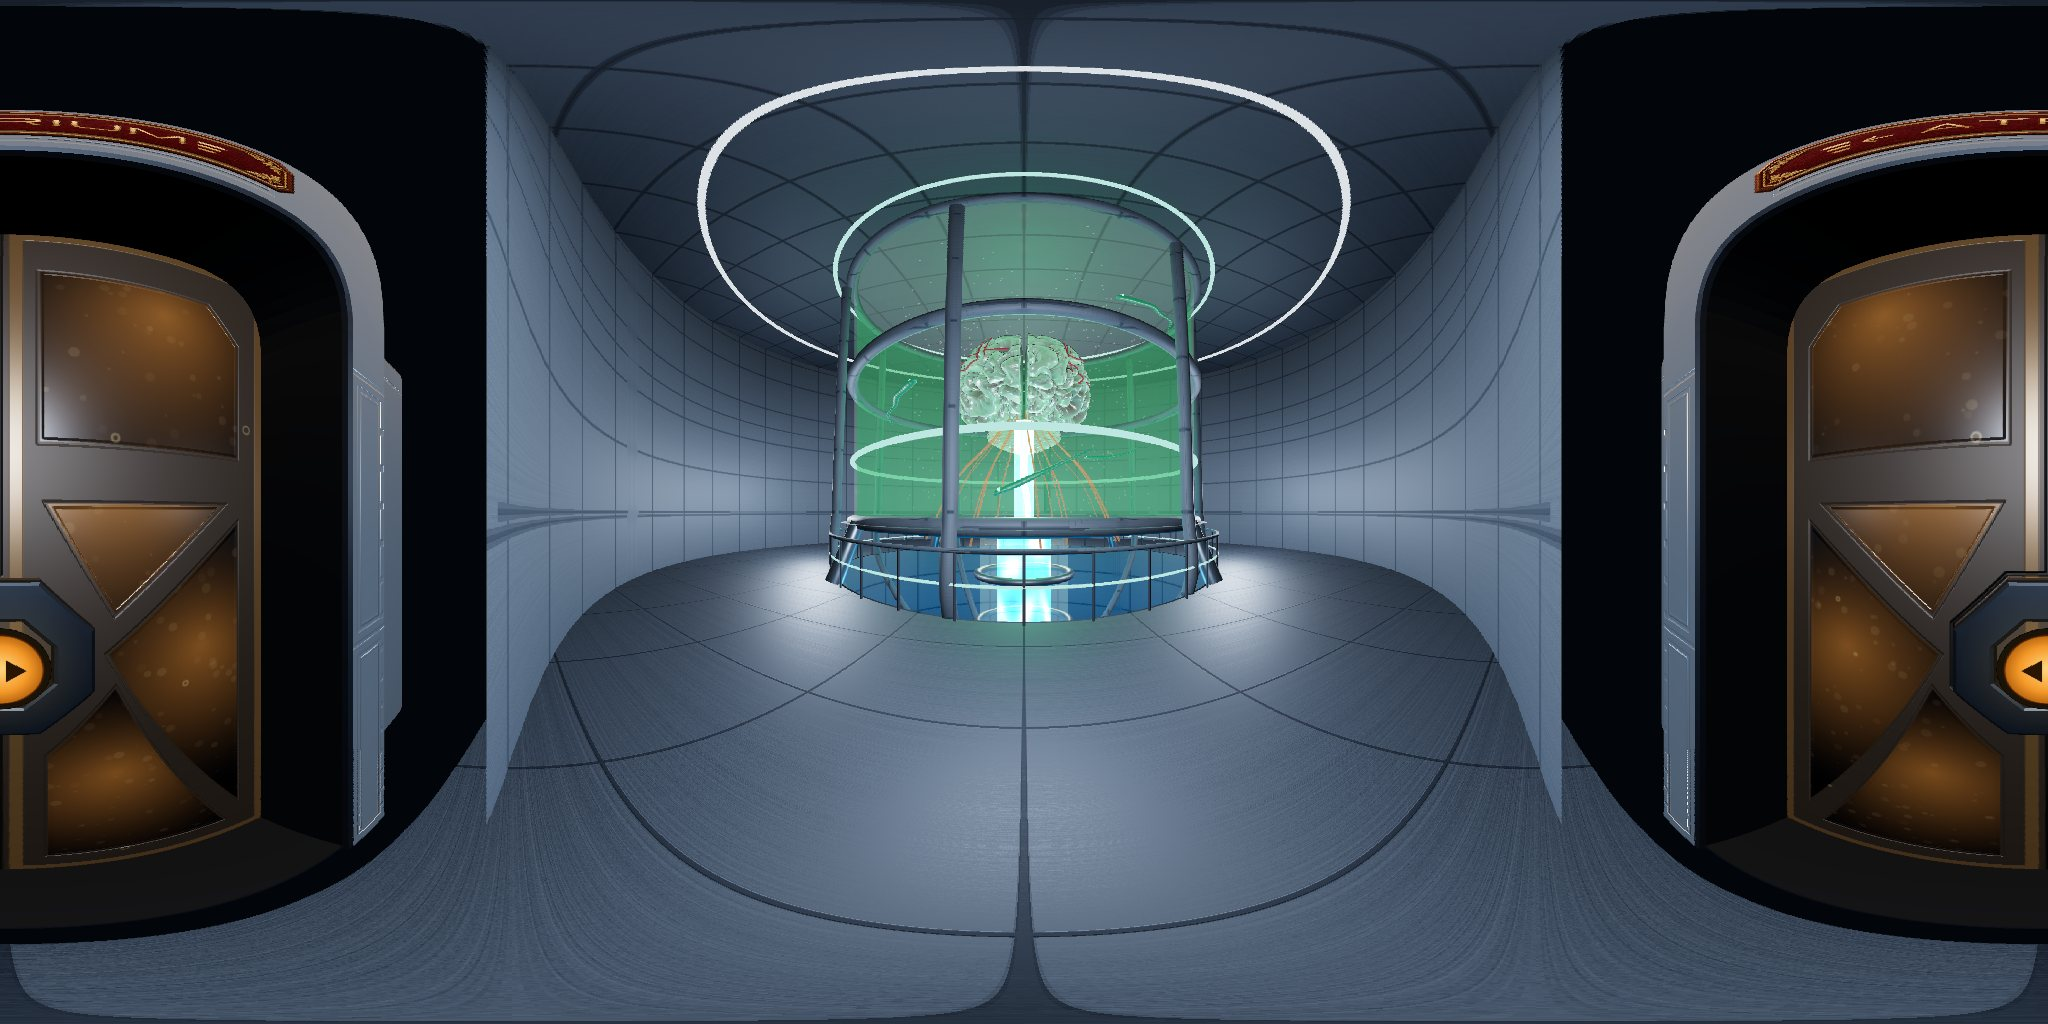
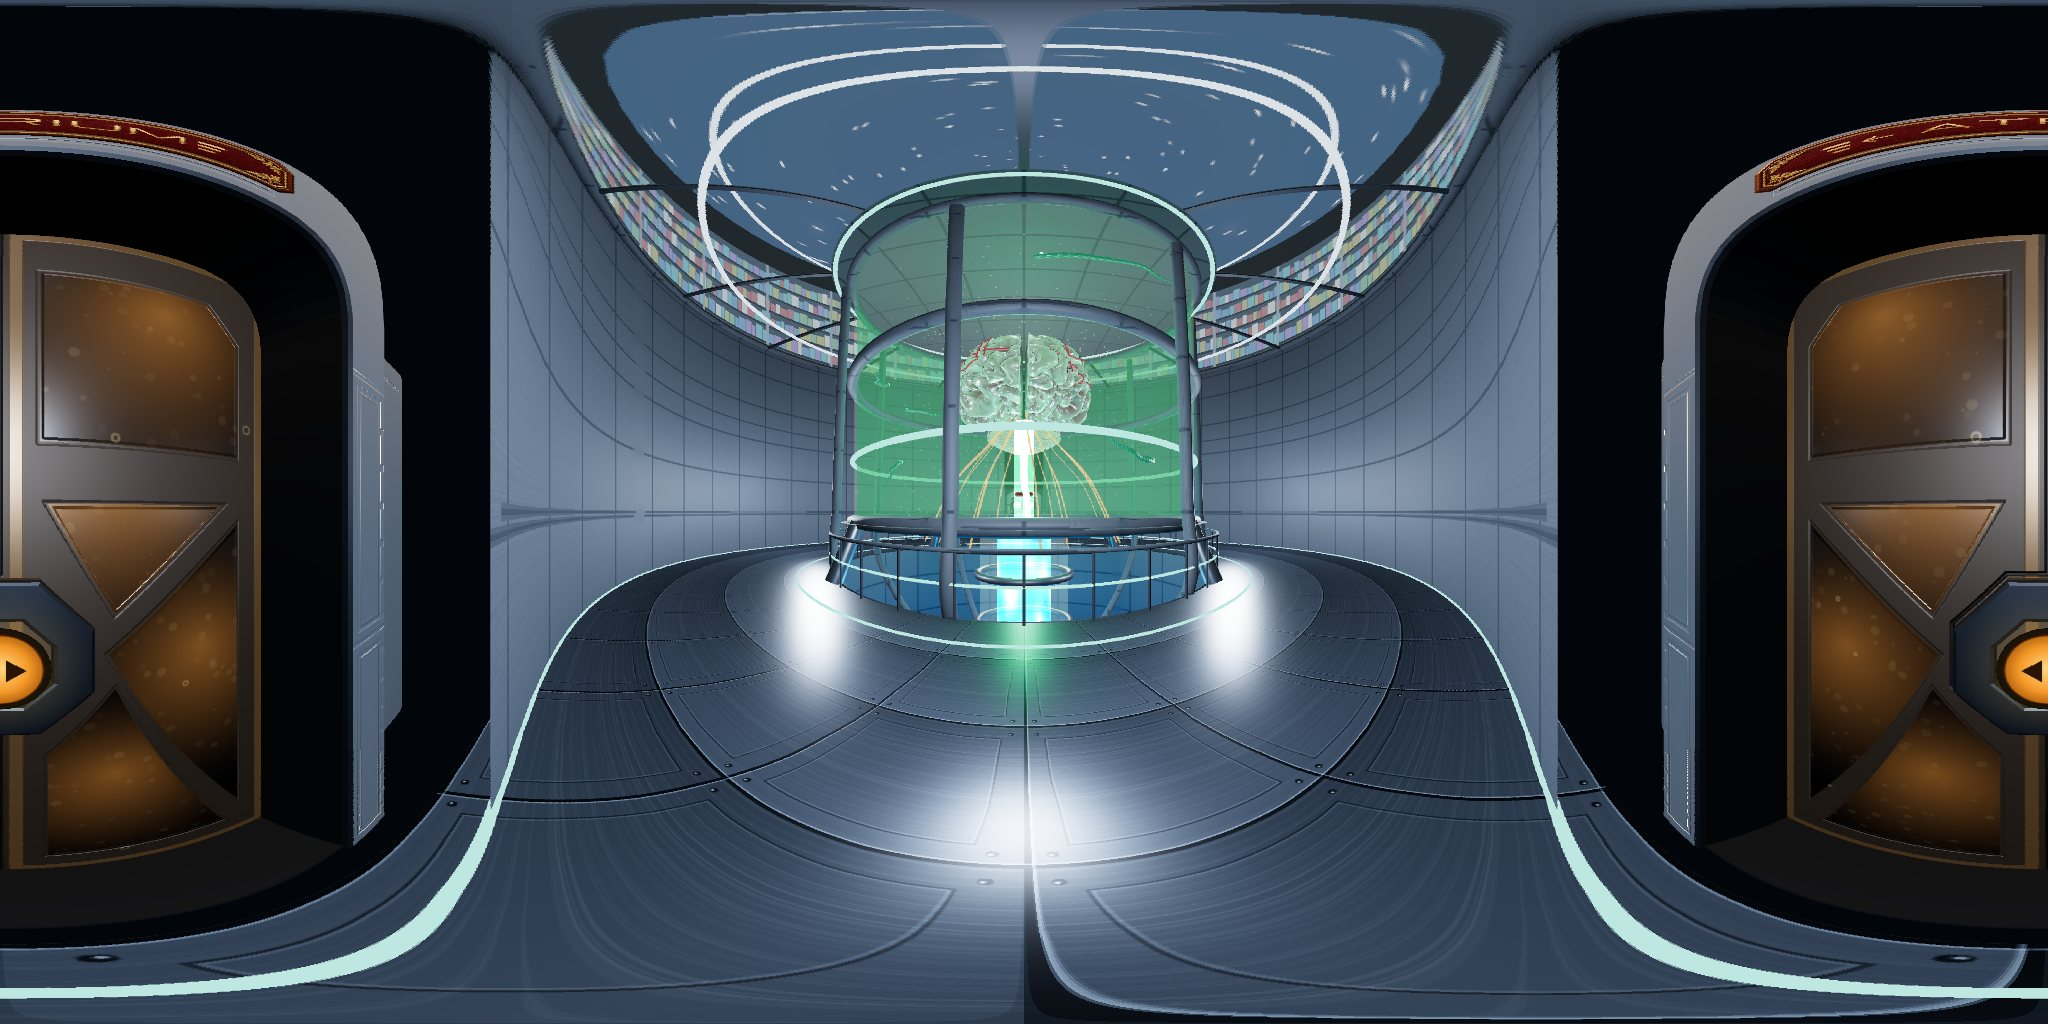
Core: polar deck-plate floor, north door to the lower hall
Claude-Session: https://claude.ai/code/session_015swmRUrM192GXN4kgLQwkg

diff --git a/core-room.js b/core-room.js
@@ -44,12 +44,24 @@
       var st = new THREE.Mesh(new THREE.CylinderGeometry(0.17, 0.22, p0.distanceTo(p1), 10), bronze); st.position.copy(p0.clone().add(p1).multiplyScalar(0.5)); st.quaternion.setFromUnitVectors(new THREE.Vector3(0, 1, 0), p1.clone().sub(p0).normalize()); g.add(st);
     }
     // walkable gallery + inner rail
-    var gal = new THREE.Mesh(new THREE.RingGeometry(GI, 10.45, MOB ? 72 : 128, 6), floor); gal.rotation.x = -Math.PI / 2; gal.position.y = 0.0; g.add(gal);
+    // Nov 27 (user: the floor was random squares not following the room): POLAR deck plates — UVs run round the ring (u) and out from the pit (v), so every seam is a radial or a concentric line
+    var GSEG = MOB ? 72 : 128, ggeo = new THREE.RingGeometry(GI, 10.45, GSEG, 6), guv = ggeo.attributes.uv, NPL = 48, NRW = 4, gi;
+    for (gi = 0; gi < guv.count; gi++) { var gu = gi % (GSEG + 1), gv = Math.floor(gi / (GSEG + 1)); guv.setXY(gi, gu / GSEG * NPL, gv / 6 * NRW); }
+    var pc = document.createElement('canvas'); pc.width = pc.height = 256; var px = pc.getContext('2d'), pg = px.createLinearGradient(0, 0, 0, 256);
+    pg.addColorStop(0, '#39414a'); pg.addColorStop(1, '#2b3239'); px.fillStyle = pg; px.fillRect(0, 0, 256, 256);
+    for (gi = 0; gi < 90; gi++) { px.fillStyle = 'rgba(255,255,255,' + (0.015 + Math.random() * 0.025) + ')'; px.fillRect(0, Math.random() * 256, 256, 1); }      // brushed grain
+    px.fillStyle = '#0c1014'; px.fillRect(0, 0, 256, 5); px.fillRect(0, 0, 5, 256); px.fillStyle = 'rgba(190,215,235,.35)'; px.fillRect(0, 5, 256, 1.5); px.fillRect(5, 0, 1.5, 256);   // groove + lit edge
+    px.strokeStyle = 'rgba(0,0,0,.35)'; px.lineWidth = 2; px.strokeRect(30, 30, 196, 196); px.strokeStyle = 'rgba(190,215,235,.18)'; px.lineWidth = 1; px.strokeRect(32, 32, 192, 192);       // inset panel
+    [[18, 18], [238, 18], [18, 238], [238, 238]].forEach(function (q) { px.fillStyle = '#12171c'; px.beginPath(); px.arc(q[0], q[1], 4, 0, 7); px.fill(); px.fillStyle = 'rgba(200,220,240,.5)'; px.beginPath(); px.arc(q[0] - 1, q[1] - 1, 1.6, 0, 7); px.fill(); });
+    var ptx = new THREE.CanvasTexture(pc); ptx.wrapS = ptx.wrapT = THREE.RepeatWrapping; ptx.anisotropy = 4; if (THREE.sRGBEncoding) ptx.encoding = THREE.sRGBEncoding;
+    var fm2 = floor.clone(); fm2.map = ptx; fm2.color.set(0xffffff); fm2.needsUpdate = true;
+    var gal = new THREE.Mesh(ggeo, fm2); gal.userData.v8Skip = true; gal.rotation.x = -Math.PI / 2; gal.position.y = 0.0; g.add(gal);
+    ring(GI + 0.9, 0.012, 0.025, teal); ring(10.2, 0.012, 0.025, teal);                      // lit inlay rings at the inner and outer edge of the deck
     ring(GI + 0.08, 1.05, 0.04, bronze); ring(GI + 0.08, 0.55, 0.025, teal);
     for (i = 0; i < 36; i++) { var ap = i / 36 * Math.PI * 2, po = new THREE.Mesh(new THREE.CylinderGeometry(0.025, 0.025, 1.05, 6), steel); po.position.set(Math.cos(ap) * (GI + 0.08), 0.52, Math.sin(ap) * (GI + 0.08)); g.add(po); }
     // outer wall (θ from +z: the doorway gap faces +z), light bands, ceiling
-    var wall = new THREE.Mesh(new THREE.CylinderGeometry(WR, WR, WH, 96, 6, true, 0.11, Math.PI * 2 - 0.22), dark); wall.position.y = WH / 2; g.add(wall);
-    [0.12, 1.6, 3.4, 5.4, 7.4, 9.1].forEach(function (y, k) { var b = new THREE.Mesh(new THREE.CylinderGeometry(WR - 0.04, WR - 0.04, 0.07, 96, 1, true, 0.11, Math.PI * 2 - 0.22), k % 2 ? bronze : (k === 0 ? teal : white)); b.position.y = y; g.add(b); });
+    [0.118, Math.PI + 0.118].forEach(function (t0) { var wall = new THREE.Mesh(new THREE.CylinderGeometry(WR, WR, WH, 48, 6, true, t0, Math.PI - 0.236), dark); wall.position.y = WH / 2; g.add(wall); });   // two walls: doorways at +Z (stairs) and −Z (lower hall)
+    [0.12, 1.6, 3.4, 5.4, 7.4, 9.1].forEach(function (y, k) { [0.118, Math.PI + 0.118].forEach(function (t0) { var b = new THREE.Mesh(new THREE.CylinderGeometry(WR - 0.04, WR - 0.04, 0.07, 48, 1, true, t0, Math.PI - 0.236), k % 2 ? steel : (k === 0 ? teal : white)); b.position.y = y; g.add(b); }); });
     // Nov 27 (user: the lower deck should have a glass viewing area up into the Library): solid centre disc round the chamber, glass annulus out to the wall, the Library (shelves, dome, lamps) visible above
     var ce = new THREE.Mesh(new THREE.CircleGeometry(CR + 0.6, MOB ? 48 : 96), steel); ce.rotation.x = Math.PI / 2; ce.position.y = WH; g.add(ce);
     (function () {

diff --git a/atrium.js b/atrium.js
@@ -18,6 +18,7 @@
     { id: 'bridge',   name: 'COMMAND BRIDGE',    x: 0,    z: -24,  rot: 0,    y: 0,   tint: 0x4aa8ff },
     { id: 'library',  name: 'THE LIBRARY',       x: 0,    z: 25.8, rot: 180,  y: 0,   tint: 0x3fe0c8 },   // Nov 27 segmentation: own page again
     { id: 'core',     name: 'THE CORE',          x: 0,    z: 45.4, rot: 0,    y: LOW, tint: 0x3fe0c8 },   // brain + reactor = core.html; Nov 27 (user sketch): the arch in the core wall at the foot of the stairs (was the forward door at z 26.6)
+    { id: 'corenorth', name: 'THE CORE', x: 0, z: 26.6, rot: 180, y: LOW, tint: 0x3fe0c8, inYaw: 180 },   // Nov 27 (user: no door on the Core's other side): north doorway from the lower hall into core.html?from=north
     { id: 'holodeck', name: 'HOLODECK',          x: -4.6, z: -14,  rot: 90,   y: 0,   tint: 0x8a5cff },
     { id: 'quarters', name: "CAPTAIN'S QUARTERS", x: -4.6, z: 9,   rot: 90,   y: 0,   tint: 0xc08a50 },
     { id: 'lounge',   name: 'CREW LOUNGE',       x: 4.6,  z: -14,  rot: -90,  y: 0,   tint: 0xffa060 },
@@ -331,13 +332,14 @@
   function buildLowerCore(root, cm, HL) {
     var R = 9.4, h = HL, y0 = LOW, WIN = [], wins = [], k;
     WIN.forEach(function (w) { wins.push(w); wins.push([-w[1], -w[0]]); }); wins.sort(function (a, b) { return a[0] - b[0]; });
-    var cursor = -Math.PI + 0.11, solid = [];
-    wins.forEach(function (w) { solid.push([cursor, w[0]]); cursor = w[1]; }); solid.push([cursor, Math.PI - 0.11]);
+    var cursor = -Math.PI + 0.118, solid = [];
+    wins.forEach(function (w) { solid.push([cursor, w[0]]); cursor = w[1]; }); solid.push([cursor, Math.PI - 0.118]);
     // Nov 27: gap for the 'core' door (θ 0, z 45.4) — the wall was solid behind the open door, so the portal photo sat inside it (user: 'flat grey wall in the arch')
     var GAPW = 0.118; solid = solid.reduce(function (o, q) { if (q[0] < 0 && q[1] > 0) { o.push([q[0], -GAPW]); o.push([GAPW, q[1]]); } else o.push(q); return o; }, []);
     function seg(a, b, mat, r, hh, yc) { var g = new THREE.CylinderGeometry(r, r, hh, Math.max(4, Math.ceil((b - a) / 0.05)), Math.max(1, Math.round(hh / 1.2)), true, a, b - a), m = new THREE.Mesh(g, mat); m.position.set(0, yc, 36); root.add(m); return m; }
     solid.forEach(function (s) { if (s[1] - s[0] > 0.01) seg(s[0], s[1], cm, R, h, y0 + h / 2); });
     seg(-GAPW, GAPW, cm, R, h - 3.1, y0 + 3.1 + (h - 3.1) / 2);   // lintel over the core door
+    seg(Math.PI - GAPW, Math.PI + GAPW, cm, R, h - 3.1, y0 + 3.1 + (h - 3.1) / 2);   // lintel over the north core door
     var wy0 = y0 + 0.25, wy1 = -1.2, wh = wy1 - wy0;
     wins.forEach(function (w) {
       var gm = M.glass.clone(); gm.opacity = 0.10; seg(w[0], w[1], gm, R, wh, wy0 + wh / 2);                       // the pane
@@ -487,7 +489,7 @@
     window.WAYFARER.corridorDoors = doors;
    /* crew.js waits on these when droids/cats pass a doorway */
   }
-  function go(d) { if (navigating || d.locked) return; if (d.wing) { navigating = true; window.WAYFARER.door.leave('library.html?wing=' + d.wing, 'images/portals/wing-' + d.wing + '.jpg', d.wing === 'starboard' ? -100.8 : 100.8); return; } var P = window.WAYFARER.door.PORTALS[d.id]; if (!P) return; navigating = true; window.WAYFARER.door.leave(P.page, 'images/portals/room-' + d.id + '.jpg', 0); }
+  function go(d) { if (navigating || d.locked) return; if (d.wing) { navigating = true; window.WAYFARER.door.leave('library.html?wing=' + d.wing, 'images/portals/wing-' + d.wing + '.jpg', d.wing === 'starboard' ? -100.8 : 100.8); return; } var P = window.WAYFARER.door.PORTALS[d.id]; if (!P) return; navigating = true; window.WAYFARER.door.leave(P.page, 'images/portals/room-' + d.id + '.jpg', d.inYaw || 0); }
   function fromRoom() {
     var explicit = new URLSearchParams(location.search).get('fromRoom');
     if (explicit && DOORS.some(function(d){return d.id === explicit;})) return explicit;

diff --git a/door.js b/door.js
@@ -34,6 +34,7 @@
     maint:    { name: 'MAINTENANCE', page: 'maint.html',   tint: 0xd0a080, corr: { x: 4.6, y: -5.95, z: 9, rot: -90 },    room: { x: 4.6, z: 9, rot: 90 },     space: { kind: 'box', bmin: [2.5, 0, -1], bmax: [16.2, 3.2, 25.8] }, corrSpace: LOWS },
     firefly:  { name: 'FIREFLY HANGAR', page: 'firefly.html', tint: 0x6fd0ff, corr: { x: 0, y: -5.95, z: -24, rot: 0 },   room: { x: 0, z: -24, rot: 180 },    space: { kind: 'box', bmin: [-13.1, 0, -49], bmax: [13.1, 3.2, -24] }, corrSpace: LOWS },
     core:     { name: 'THE CORE', page: 'core.html', tint: 0x3fe0c8, corr: { x: 0, y: -5.95, z: 45.4, rot: 0 }, room: { x: 0, z: 10.65, rot: 180 }, space: { kind: 'cyl', radius: 10.4, bmin: [-10.4, 0, -10.4], bmax: [10.4, 9.4, 10.4] }, corrSpace: { kind: 'box', bmin: [-3.4, -5.95, 45.4], bmax: [3.4, -0.23, 48.0] } },
+    corenorth: { name: 'THE CORE', page: 'core.html?from=north', tint: 0x3fe0c8, corr: { x: 0, y: -5.95, z: 26.6, rot: 180 }, room: { x: 0, z: -10.65, rot: 0 }, space: { kind: 'cyl', radius: 10.4, bmin: [-10.4, 0, -10.4], bmax: [10.4, 9.4, 10.4] }, corrSpace: { kind: 'box', bmin: [-2.6, -5.95, 24.9], bmax: [2.6, -0.23, 26.6] } },
     engine:   { name: 'ENGINE ROOM', page: 'engine.html',  tint: 0x3fe0c8, corr: { x: 0, y: -5.95, z: 26.6, rot: 180 },  room: { x: 0, z: 26.6, rot: 0 },     space: { kind: 'box', bmin: [-9.4, 0, 26.6], bmax: [9.4, 3.2, 45.4] }, corrSpace: LOWS }
   };
   function frameMatrix(f) { return new THREE.Matrix4().makeRotationY(f.rot * Math.PI / 180).setPosition(f.x, f.y || 0, f.z); }   // y: lower-deck doors (atrium −5.95)
@@ -384,7 +385,7 @@
   // Leaving: remember which 360° photo shows the other side + which way you'll face, and go straight away (no black fade).
   // Arriving: before the heavy room has built, a tiny second renderer shows that photo at your arrival heading, then
   // crossfades into the live scene. You see the destination the whole time.
-  var CORR_YAW = { bridge: 180, library: 0, holodeck: -90, lounge: 90, media: 90, quarters: -90, medbay: -90, xeno: -90, mess: 90, maint: 90, firefly: 180, engine: 0, core: 180 };   // atrium arrival headings (0 = facing −Z): one step out, facing away from the door
+  var CORR_YAW = { bridge: 180, library: 0, holodeck: -90, lounge: 90, media: 90, quarters: -90, medbay: -90, xeno: -90, mess: 90, maint: 90, firefly: 180, engine: 0, core: 180, corenorth: 0 };   // atrium arrival headings (0 = facing −Z): one step out, facing away from the door
   function leave(page, img, yaw) {
     try { sessionStorage.setItem('wf-arrive', JSON.stringify({ img: img, yaw: yaw || 0, t: Date.now() })); } catch (e) {}
     document.documentElement.style.background = '#120c08'; location.href = page;

diff --git a/core.html b/core.html
@@ -32,7 +32,7 @@
   <!-- WF_INTERACTION_V11 -->
   <script src="interaction-v11/core.js?v=11.0.0"></script>
   <script src="interaction-v11/runtime.js?v=11.0.0"></script>
-  <script src="door.js?v=20261127zu"></script>
+  <script src="door.js?v=20261127zzf"></script>
   <script src="lcars.js?v=20261127s"></script>
   <script src="brain.js?v=20261127w"></script>
   <style>
@@ -42,20 +42,21 @@
   </style>
 </head>
 <body data-room="core">
+  <script>if (/[?&]from=north/.test(location.search)) { document.addEventListener('DOMContentLoaded', function () { var pl = document.getElementById('player'); pl.setAttribute('position', '0 0 -8'); pl.setAttribute('rotation', '0 180 0'); }); }</script>
   <div id="room-prompt"></div>
   <div id="wf-fade"></div>
   <a-scene device-orientation-permission-ui="enabled: false" wayfarer-mobile="radius: 10.1" light="defaultLightsEnabled: false"
     fog="type: exponential; color: #04080a; density: 0.012" background="color: #02060a" vr-mode-ui="enabled: true"
     renderer="antialias: true; toneMapping: ACESFilmic; exposure: 1.15">
-    <a-entity id="player" position="0 0 8">
+    <a-entity id="player" position="0 0 8" rotation="0 0 0">
       <a-camera id="cam" wasd-controls="acceleration: 22; fly: false" look-controls="pointerLockEnabled: true; touchEnabled: true; magicWindowTrackingEnabled: false" position="0 1.6 0">
         <a-cursor color="#7dffb8" opacity="0.6" fuse="true" fuse-timeout="1500" raycaster="objects: .interactive"></a-cursor>
       </a-camera>
     </a-entity>
     <a-entity id="brain" position="0 5.55 0" scale="0.55 0.55 0.55"></a-entity>
   </a-scene>
-  <script src="core-room.js?v=20261127zzc"></script>
+  <script src="core-room.js?v=20261127zze"></script>
   <script src="interior-v8.js?v=20261127zb"></script>
-  <script>window.WAYFARER.door.roomExit('core');</script>
+  <script>window.WAYFARER.door.roomExit('core'); window.WAYFARER.door.roomExit('corenorth');</script>
 </body>
 </html>

diff --git a/index.html b/index.html
@@ -38,7 +38,7 @@
   <!-- WF_INTERACTION_V11 -->
   <script src="interaction-v11/core.js?v=11.0.0"></script>
   <script src="interaction-v11/runtime.js?v=11.0.0"></script>
-  <script src="door.js?v=20261127zu"></script>
+  <script src="door.js?v=20261127zzf"></script>
   <script src="lcars.js?v=20261127s"></script>
   <script src="crew.js?v=20261127z9"></script>
   <script src="repairs.js?v=20261127s"></script>
@@ -62,7 +62,7 @@
     </a-entity>
     <a-entity id="atrium" wf-atrium></a-entity>
   </a-scene>
-  <script src="atrium.js?v=20261127zzc"></script>
+  <script src="atrium.js?v=20261127zzd"></script>
   <script src="interior-v8.js?v=20261127zb"></script>
   <script src="furniture.js?v=20261127u"></script>
   <script src="realism-loader.js?v=20261127v"></script>

diff --git a/bridge.html b/bridge.html
@@ -31,7 +31,7 @@
   <!-- WF_INTERACTION_V11 -->
   <script src="interaction-v11/core.js?v=11.0.0"></script>
   <script src="interaction-v11/runtime.js?v=11.0.0"></script>
-  <script src="door.js?v=20261127zu"></script>
+  <script src="door.js?v=20261127zzf"></script>
   <script src="hyperspace.js?v=20261127s"></script>
   <script src="shipskin.js?v=20261127s"></script>
   <script src="lcars.js?v=20261127s"></script>

diff --git a/library.html b/library.html
@@ -36,7 +36,7 @@
   <!-- WF_INTERACTION_V11 -->
   <script src="interaction-v11/core.js?v=11.0.0"></script>
   <script src="interaction-v11/runtime.js?v=11.0.0"></script>
-  <script src="door.js?v=20261127zu"></script>
+  <script src="door.js?v=20261127zzf"></script>
   <script src="lcars.js?v=20261127s"></script>
   <script src="starmap.js?v=20261127z9"></script>
   <script src="wp-console.js?v=20261127s"></script>

diff --git a/corridor-old.html b/corridor-old.html
@@ -32,7 +32,7 @@
   <!-- WF_INTERACTION_V11 -->
   <script src="interaction-v11/core.js?v=11.0.0"></script>
   <script src="interaction-v11/runtime.js?v=11.0.0"></script>
-  <script src="door.js?v=20261127zu"></script>
+  <script src="door.js?v=20261127zzf"></script>
   <script src="lcars.js?v=20261127s"></script>
   <script src="crew.js?v=20261127z9"></script>
   <script src="repairs.js?v=20261127s"></script>

diff --git a/holodeck.html b/holodeck.html
@@ -43,7 +43,7 @@
   <!-- WF_INTERACTION_V11 -->
   <script src="interaction-v11/core.js?v=11.0.0"></script>
   <script src="interaction-v11/runtime.js?v=11.0.0"></script>
-  <script src="door.js?v=20261127zu"></script>
+  <script src="door.js?v=20261127zzf"></script>
   <script src="lcars.js?v=20261127s"></script>
   <script src="crew.js?v=20261127z9"></script>
   <script src="repairs.js?v=20261127s"></script>

diff --git a/lounge.html b/lounge.html
@@ -32,7 +32,7 @@
   <!-- WF_INTERACTION_V11 -->
   <script src="interaction-v11/core.js?v=11.0.0"></script>
   <script src="interaction-v11/runtime.js?v=11.0.0"></script>
-  <script src="door.js?v=20261127zu"></script>
+  <script src="door.js?v=20261127zzf"></script>
   <script src="lcars.js?v=20261127s"></script>
   <script src="crew.js?v=20261127z9"></script>
   <script src="repairs.js?v=20261127s"></script>

diff --git a/media.html b/media.html
@@ -31,7 +31,7 @@
   <!-- WF_INTERACTION_V11 -->
   <script src="interaction-v11/core.js?v=11.0.0"></script>
   <script src="interaction-v11/runtime.js?v=11.0.0"></script>
-  <script src="door.js?v=20261127zu"></script>
+  <script src="door.js?v=20261127zzf"></script>
   <script src="lcars.js?v=20261127s"></script>
   <script src="crew.js?v=20261127z9"></script>
   <script src="repairs.js?v=20261127s"></script>

diff --git a/engine.html b/engine.html
@@ -32,7 +32,7 @@
   <!-- WF_INTERACTION_V11 -->
   <script src="interaction-v11/core.js?v=11.0.0"></script>
   <script src="interaction-v11/runtime.js?v=11.0.0"></script>
-  <script src="door.js?v=20261127zu"></script>
+  <script src="door.js?v=20261127zzf"></script>
   <script src="lcars.js?v=20261127s"></script>
   <script src="hyperspace.js?v=20261127s"></script>
   <style>
